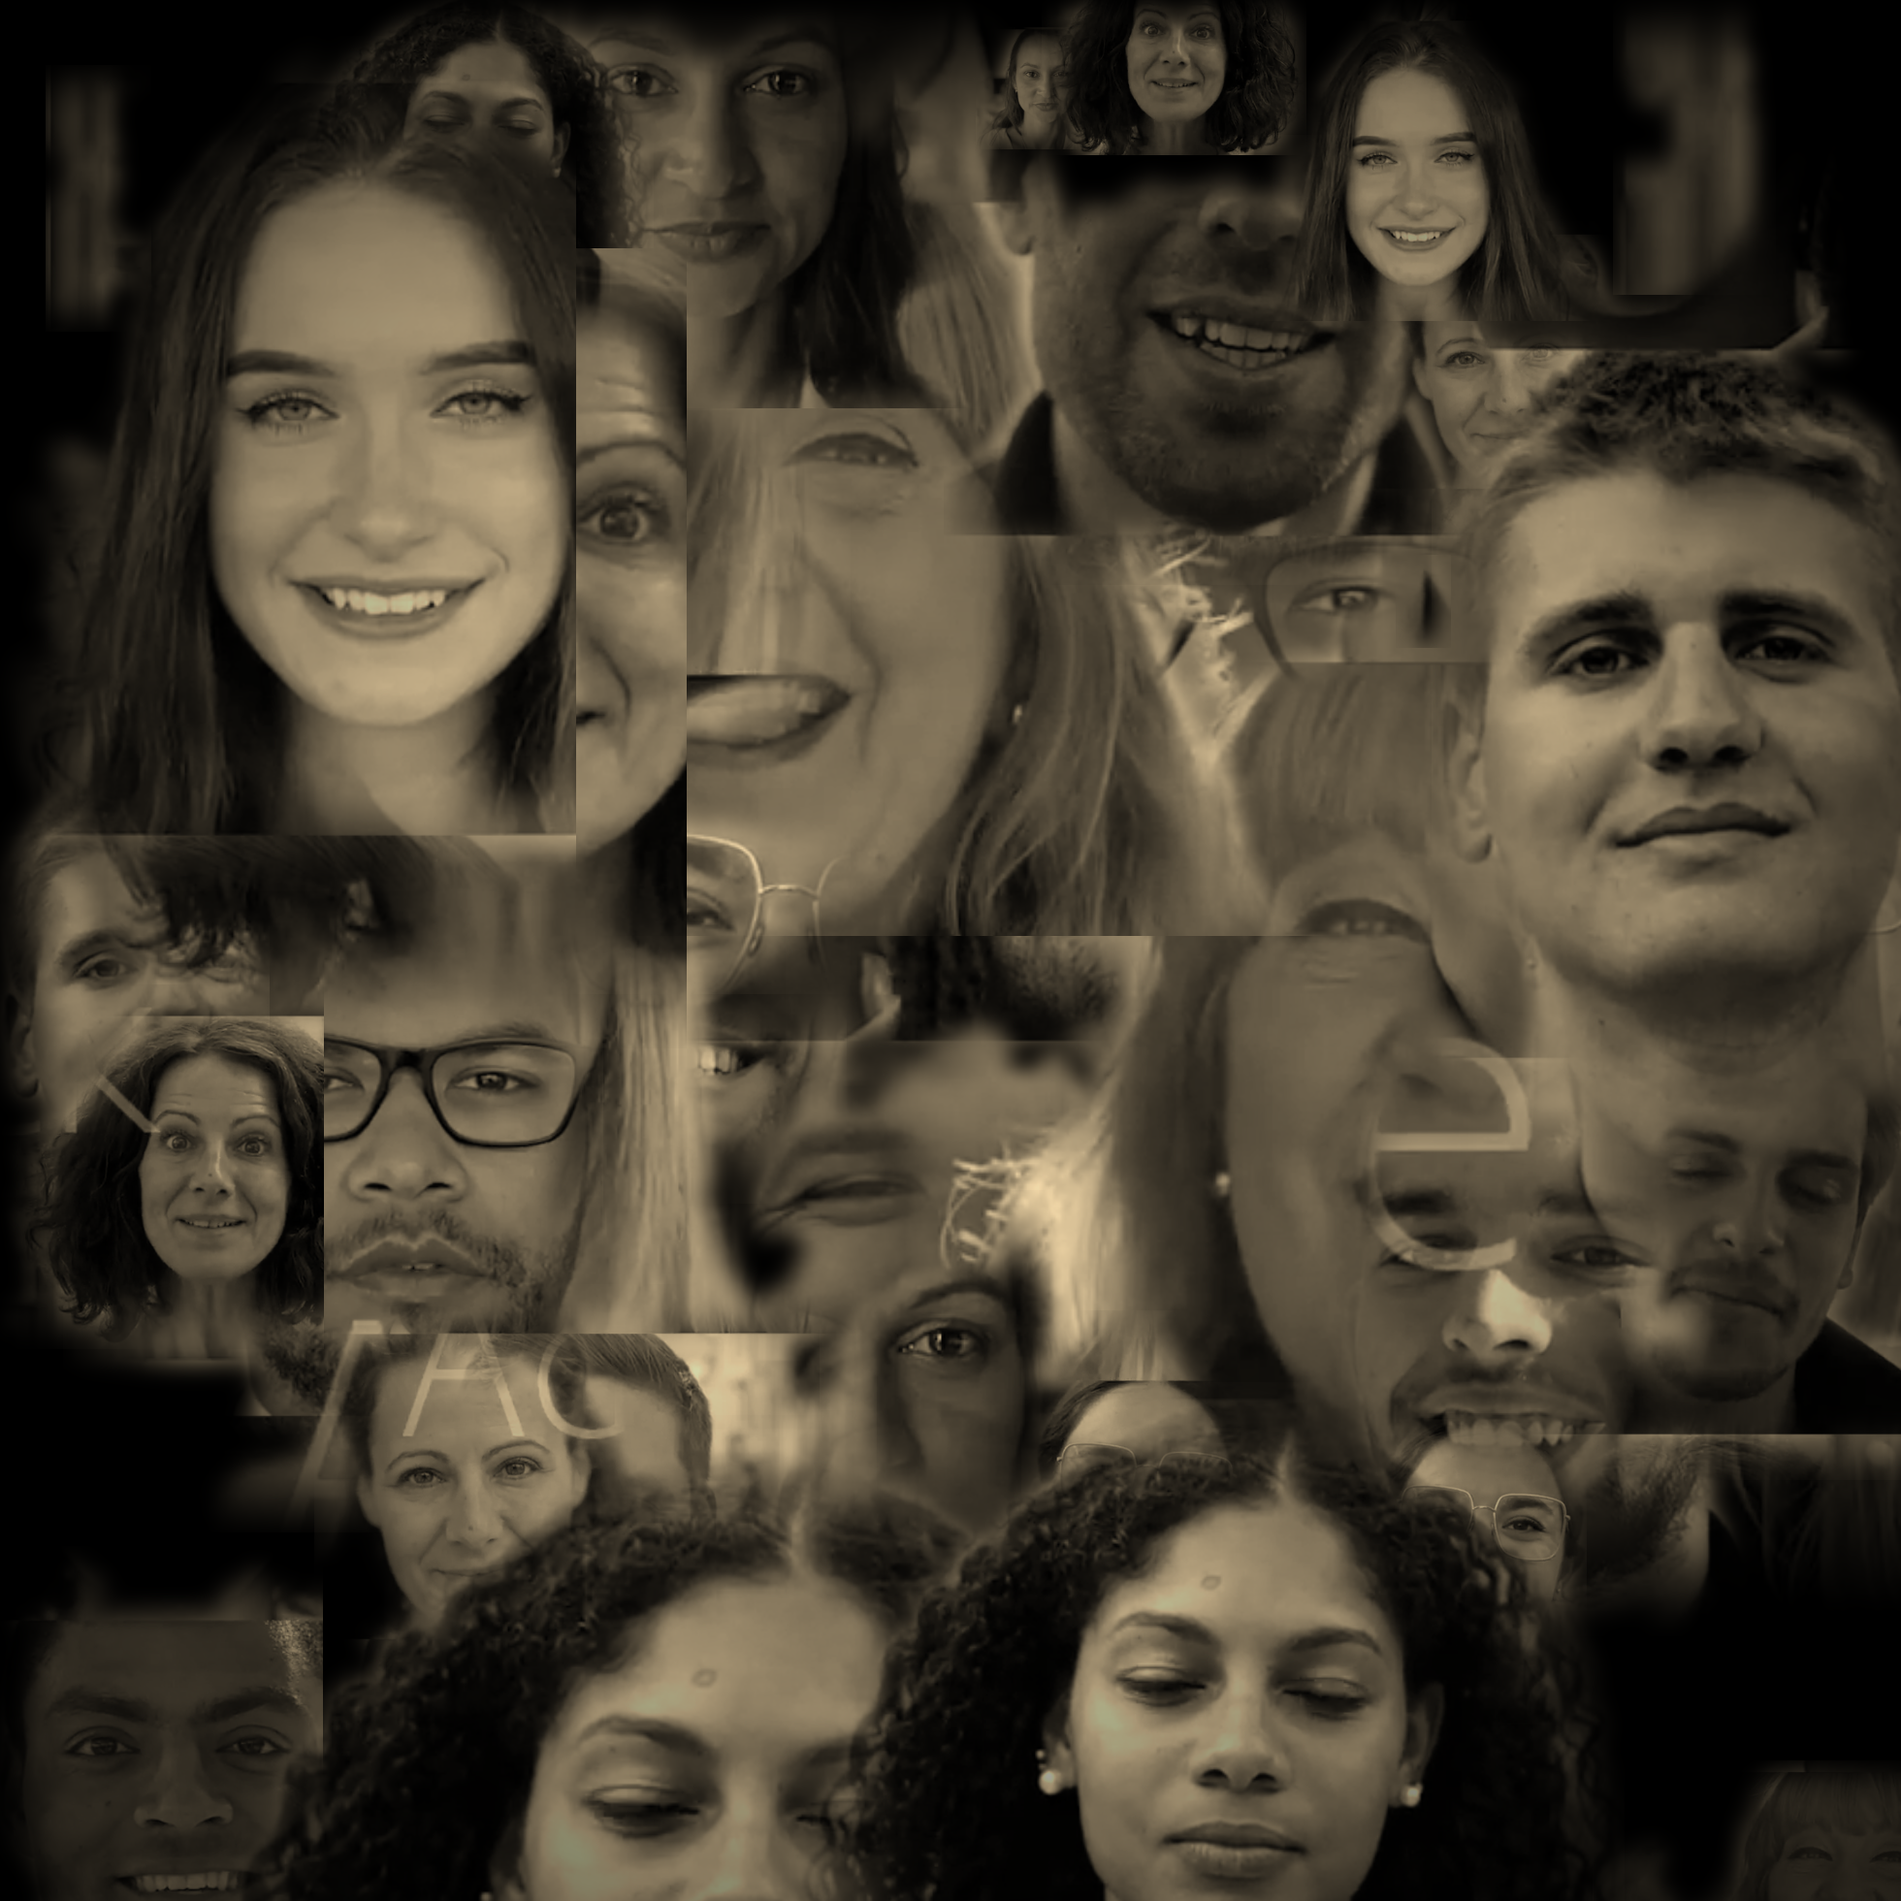
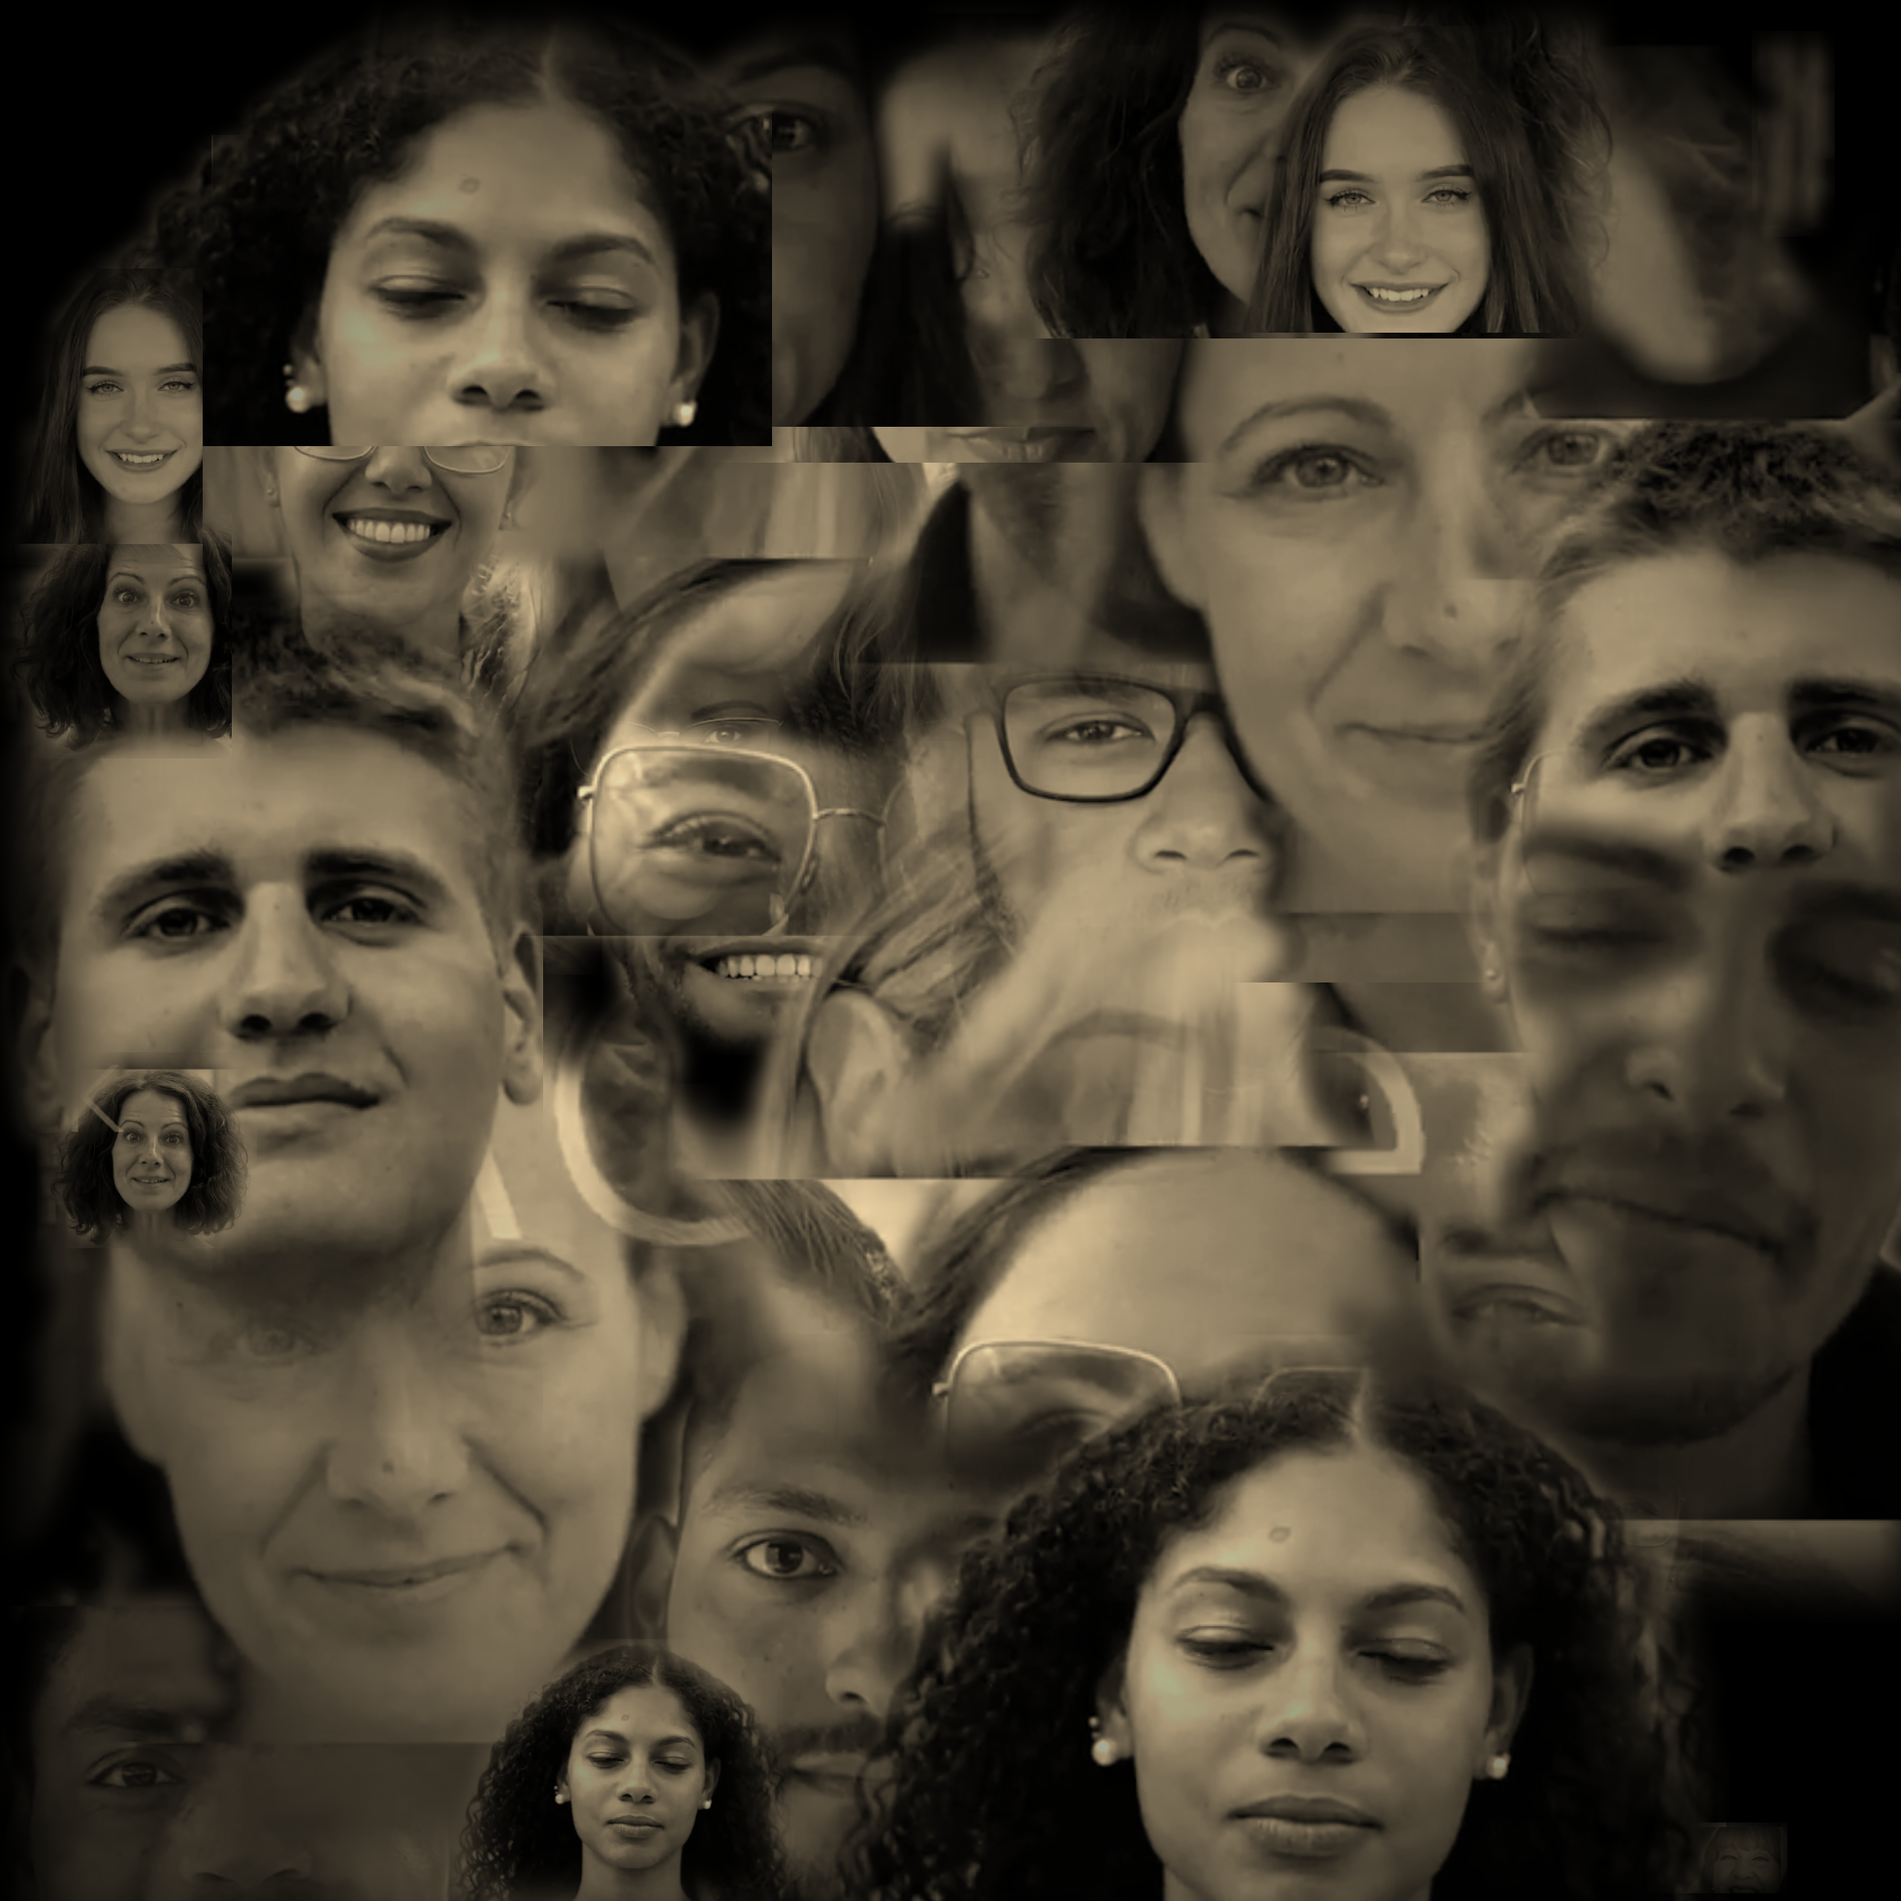
Got decent progress in SignRecog. Now just needs further refinement and then template matching

diff --git a/Assignment 1/SignRecognition.py b/Assignment 1/SignRecognition.py
@@ -1,15 +1,292 @@
-####### Code for Question 2 - ELEC4630 A1 - Tevyn Vergara ######
-
-############################################### Import Libraries ################################################################
-
-from warnings import filters
-from skimage import data, color, feature, filters, io # for inbuilt images
-from skimage.color import *
-from skimage.feature import corner_harris, corner_peaks, corner_subpix
-from skimage.filters import threshold_otsu
+import os
+import sys
 import numpy as np
-from skimage.morphology import dilation, erosion, disk, square, diamond, footprint_rectangle
 import matplotlib.pyplot as plt
-from scipy.ndimage import uniform_filter
+from skimage import io, color, feature, filters, morphology, measure, exposure, restoration
+from scipy.ndimage import distance_transform_edt
+from scipy import ndimage
+from scipy.signal import fftconvolve
+from skimage.draw import polygon_perimeter, circle_perimeter, polygon, disk as draw_disk
 
-################################################ Function Definitions #############################################################
+# ==========================================
+# 1. Multi-Class Shape Generation
+# ==========================================
+def get_shape_vertices(shape_type, size):
+    half_size = (size - 1) / 2.0
+    
+    if shape_type == 'Octagon':
+        s = size / 3.0
+        y = np.array([-half_size+s, half_size-s, half_size, half_size, half_size-s, -half_size+s, -half_size, -half_size])
+        x = np.array([-half_size, -half_size, -half_size+s, half_size-s, half_size, half_size, half_size-s, -half_size+s])
+    elif shape_type == 'Triangle_Up':
+        y = np.array([-half_size, half_size, half_size])
+        x = np.array([0, -half_size, half_size])
+    elif shape_type == 'Triangle_Down':
+        y = np.array([half_size, -half_size, -half_size])
+        x = np.array([0, half_size, -half_size])
+    elif shape_type == 'Square':
+        y = np.array([-half_size, half_size, half_size, -half_size])
+        x = np.array([-half_size, -half_size, half_size, half_size])
+    elif shape_type == 'Rectangle':
+        h_half, w_half = half_size, half_size * 0.7 
+        y = np.array([-h_half, h_half, h_half, -h_half])
+        x = np.array([-w_half, -w_half, w_half, w_half])
+        
+    return y, x
+
+def create_binary_templates(size):
+    shapes = ['Octagon', 'Triangle_Up', 'Triangle_Down', 'Square', 'Rectangle']
+    templates = {}
+    
+    for shape in shapes:
+        template = np.zeros((size, size), dtype=bool)
+        y_centered, x_centered = get_shape_vertices(shape, size)
+        
+        r_idx = (y_centered + (size - 1) / 2.0).astype(int)
+        c_idx = (x_centered + (size - 1) / 2.0).astype(int)
+        
+        rr, cc = polygon_perimeter(r_idx, c_idx)
+        valid = (rr >= 0) & (rr < size) & (cc >= 0) & (cc < size)
+        template[rr[valid], cc[valid]] = True
+        templates[shape] = template
+
+    # Add Circle
+    circle_template = np.zeros((size, size), dtype=bool)
+    center = int((size - 1) / 2.0)
+    rr, cc = circle_perimeter(center, center, center)
+    valid = (rr >= 0) & (rr < size) & (cc >= 0) & (cc < size)
+    circle_template[rr[valid], cc[valid]] = True
+    templates['Circle'] = circle_template
+    
+    return templates
+
+# ==========================================
+# 2. Create the Filtering Mask
+# ==========================================
+def generate_filtering_mask(image_shape, match_shape_type, match_scale, match_loc_tl):
+    mask = np.zeros(image_shape, dtype=bool)
+    y_tl, x_tl = match_loc_tl
+    center_y = y_tl + (match_scale - 1) / 2.0
+    center_x = x_tl + (match_scale - 1) / 2.0
+    
+    if match_shape_type == 'Circle':
+        radius = (match_scale - 1) / 2.0
+        rr, cc = draw_disk((center_y, center_x), radius, shape=image_shape)
+        mask[rr, cc] = True
+    else:
+        y_centered, x_centered = get_shape_vertices(match_shape_type, match_scale)
+        r_idx = y_centered + center_y
+        c_idx = x_centered + center_x
+        rr, cc = polygon(r_idx, c_idx, shape=image_shape)
+        mask[rr, cc] = True
+        
+    return mask
+
+# ==========================================
+# 3. Main Execution
+# ==========================================
+def detect_and_filter_sign(image_path, params):
+    image = io.imread(image_path)
+    gray_img = color.rgb2gray(image)
+
+    # ==========================================
+    # 1. Enhanced Edge Detection (CLAHE)
+    # ==========================================
+    # Maximize local contrast so yellow/white signs "pop" against bright skies
+    enhanced_gray = exposure.equalize_adapthist(gray_img, clip_limit=params['clahe_clip_limit'])
+    
+    # 1. Edge Detection (Now using tunable params)
+    # Edge-Preserving Smoothing: Flattens pixelation but keeps geometric borders sharp
+    blurred = restoration.denoise_bilateral(enhanced_gray, 
+                                            sigma_color=params['bilateral_color'], 
+                                            sigma_spatial=params['bilateral_spatial'])
+    # 1. Manual Canny Thresholds
+    # By forcing high_threshold up, we ignore weak background clutter
+    raw_edges = feature.canny(blurred, 
+                              sigma=params['canny_sigma'],
+                              low_threshold=params['canny_low'],
+                              high_threshold=params['canny_high'])
+    
+    # ==========================================
+    # 1.5 The Retroreflective Gatekeeper
+    # ==========================================
+    hsv = color.rgb2hsv(image)
+    H, S, V = hsv[..., 0], hsv[..., 1], hsv[..., 2]
+    
+    # Standard Signs (Red, Blue)
+    red_mask = ((H < 0.05) | (H > 0.90)) & (S > params['color_s_min']) & (V > params['color_v_min'])
+    # blue_mask = (H > 0.55) & (H < 0.70) & (S > params['color_s_min']) & (V > params['color_v_min'])
+    
+    # TIGHT YELLOW: Desert sand has low saturation. Manufactured signs are highly saturated.
+    yellow_mask = (H > 0.05) & (H < 0.3) & (S > params['yellow_s_min']) & (V > params['yellow_v_min'])
+    
+    # TIGHT WHITE: Must be extraordinarily bright (High V) with almost zero color bleed (Low S).
+    # white_mask = (S < params['white_s_max']) & (V > params['white_v_min'])
+    
+    # Combine masks and dilate slightly to ensure it covers the edge gradients
+    combined_color_mask = red_mask | yellow_mask
+    dilated_color_mask = morphology.dilation(combined_color_mask, morphology.disk(25))
+    
+    # Filter the raw edges: Delete any edge that isn't a retroreflective color
+    color_gated_edges = raw_edges & dilated_color_mask
+    
+    # NO CLOSING: We delete the bridge completely so the text doesn't blob together.
+    
+    # THE GEOMETRY PURIFIER: 
+    # We prune the raw gated edges directly. By raising min_size heavily, 
+    # we delete the dirt, the text, and the animals, leaving ONLY the giant borders!
+    pruned_edges = morphology.remove_small_objects(color_gated_edges, 
+                                                   min_size=params['min_edge_length'], 
+                                                   connectivity=2)
+    
+    # Compute Distance Transform on the purified borders
+    dt_image = distance_transform_edt(~pruned_edges)
+    
+    print("Initiating Multi-Scale FFT Chamfer Search...")
+    
+    best_overall_cost = np.inf
+    best_scale_size = None
+    best_match_loc_tl = None
+    best_shape_class = None
+    
+    img_h, img_w = dt_image.shape
+    min_dim = min(img_h, img_w)
+    min_size = max(20, int(min_dim * 0.05))
+    max_size = min(400, int(min_dim * 0.40))
+    step_size = 5 
+    
+    # 3. Slide templates over the DT using fast FFT
+    for template_size in range(min_size, max_size + 1, step_size):
+        if template_size > img_h or template_size > img_w:
+            break
+            
+        templates = create_binary_templates(size=template_size)
+        
+        for shape_name, template in templates.items():
+            num_edge_pixels = np.sum(template)
+            if num_edge_pixels == 0: continue
+            
+            cost_map = fftconvolve(dt_image, template[::-1, ::-1].astype(float), mode='valid') / num_edge_pixels
+            min_cost = np.min(cost_map)
+            
+            if min_cost < best_overall_cost:
+                best_overall_cost = min_cost
+                best_scale_size = template_size
+                best_shape_class = shape_name
+                best_match_loc_tl = np.unravel_index(np.argmin(cost_map), cost_map.shape)
+
+    if best_shape_class is None:
+        print("Error: Could not lock onto a shape.")
+        return
+
+    print(f"Locked onto Shape: {best_shape_class} @ {best_scale_size}px")
+    
+    # 4. Generate spatial filter mask
+    sign_mask = generate_filtering_mask(
+        image_shape=(img_h, img_w), 
+        match_shape_type=best_shape_class, 
+        match_scale=best_scale_size, 
+        match_loc_tl=best_match_loc_tl
+    )
+    
+    # 5. Rough Filter (Drop edges completely outside the template mask)
+    masked_edges = raw_edges & sign_mask
+    
+    # ==========================================
+    # 6. THE GEOMETRIC GATEKEEPER
+    # ==========================================
+    closed_edges = morphology.closing(masked_edges, morphology.disk(params['closing_radius']))
+    filled_regions = ndimage.binary_fill_holes(closed_edges)
+    labeled_regions = measure.label(filled_regions)
+    regions = measure.regionprops(labeled_regions)
+    
+    final_clean_edges = np.zeros_like(masked_edges)
+    
+    for region in regions:
+        if region.area < params['min_area'] or region.area > params['max_area']:
+            continue
+        if region.solidity < params['min_solidity']:
+            continue
+            
+        min_r, min_c, max_r, max_c = region.bbox
+        aspect_ratio = (max_c - min_c) / float(max_r - min_r)
+        if aspect_ratio < params['min_aspect'] or aspect_ratio > params['max_aspect']:
+            continue
+            
+        if region.perimeter == 0:
+            continue
+        circularity = (4 * np.pi * region.area) / (region.perimeter ** 2)
+        if circularity < params['min_circularity']:
+            continue
+            
+        for coords in region.coords:
+            final_clean_edges[coords[0], coords[1]] = masked_edges[coords[0], coords[1]]
+
+# ==========================================
+    # 7. Visualization (The Debug Layout)
+    # ==========================================
+    fig, axes = plt.subplots(1, 3, figsize=(25, 6))
+    
+    axes[0].imshow(image)
+    axes[0].set_title("1. Original Image")
+    
+    # Let's look at what Canny is doing BEFORE the color mask!
+    axes[1].imshow(raw_edges, cmap='gray')
+    axes[1].set_title(f"2. RAW Canny Edges\n(If it's broken here, Canny is the problem)")
+    
+    # Now let's look at what survives the mask and the bridging
+    axes[2].imshow(pruned_edges, cmap='gray')
+    axes[2].set_title(f"3. Color Masked, Bridged, & Pruned")
+    
+    for ax in axes:
+        ax.axis('off')
+        
+    plt.tight_layout()
+    plt.show()
+
+# ==========================================
+if __name__ == "__main__":
+    target_jpg_file = "A1_Streetsigns/Sign4.jpg" 
+    
+    # ==========================================
+    # EDGE EXTRACTION & GEOMETRY PARAMETERS
+    # ==========================================
+    gatekeeper_params = {
+            # Edge Detection Control
+            'gaussian_sigma': 1.0,     # Lowered to prevent over-smoothing
+            'canny_sigma': 1.0,        
+            'clahe_clip_limit': 0.03,  
+
+            'bilateral_spatial': 10,   
+            'bilateral_color': 0.1,    
+
+            'canny_high': 0.40,        # Lowered heavily to allow the yellow/blue contrast to survive
+            'canny_low': 0.10,         
+            'min_edge_length': 50,     # Lowered to preserve the animals and text inside the signs
+
+            # --- Retroreflective Color Thresholds ---
+            'color_s_min': 0.40,       
+            'color_v_min': 0.30,       
+            
+            # TIGHT YELLOW TUNING
+            'yellow_s_min': 0.40,      # Relaxed to account for sunlight glare and compression
+            'yellow_v_min': 0.50,      
+
+            # TIGHT WHITE TUNING
+            'white_s_max': 0.15,       
+            'white_v_min': 0.85,       
+
+            # Geometry Control
+            'closing_radius': 3,       
+            'min_area': 800,           
+            'max_area': 500000,        
+            'min_solidity': 0.85,      
+            'min_aspect': 0.3,         
+            'max_aspect': 3.0,         
+            'min_circularity': 0.45    
+        }
+    
+    if os.path.exists(target_jpg_file):
+        detect_and_filter_sign(target_jpg_file, gatekeeper_params)
+    else:
+        print(f"Error: Could not find '{target_jpg_file}'.")
